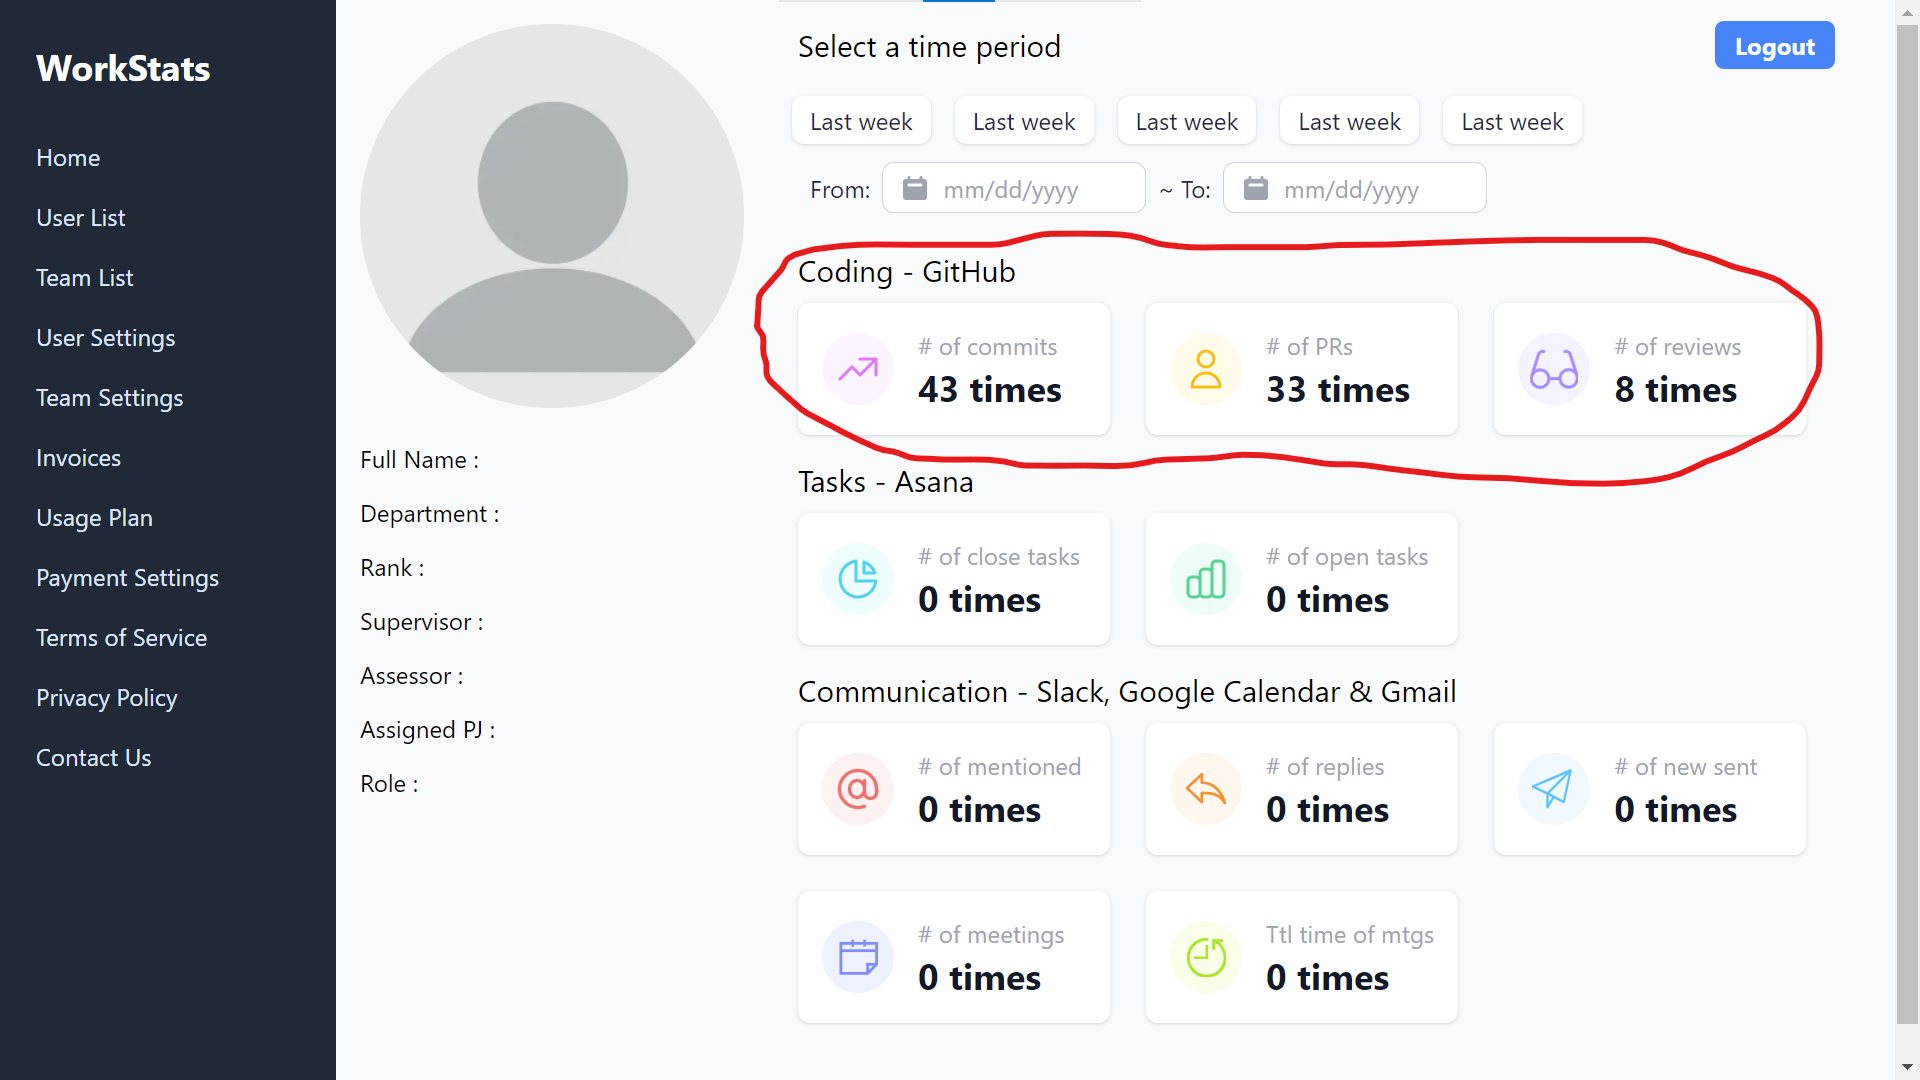
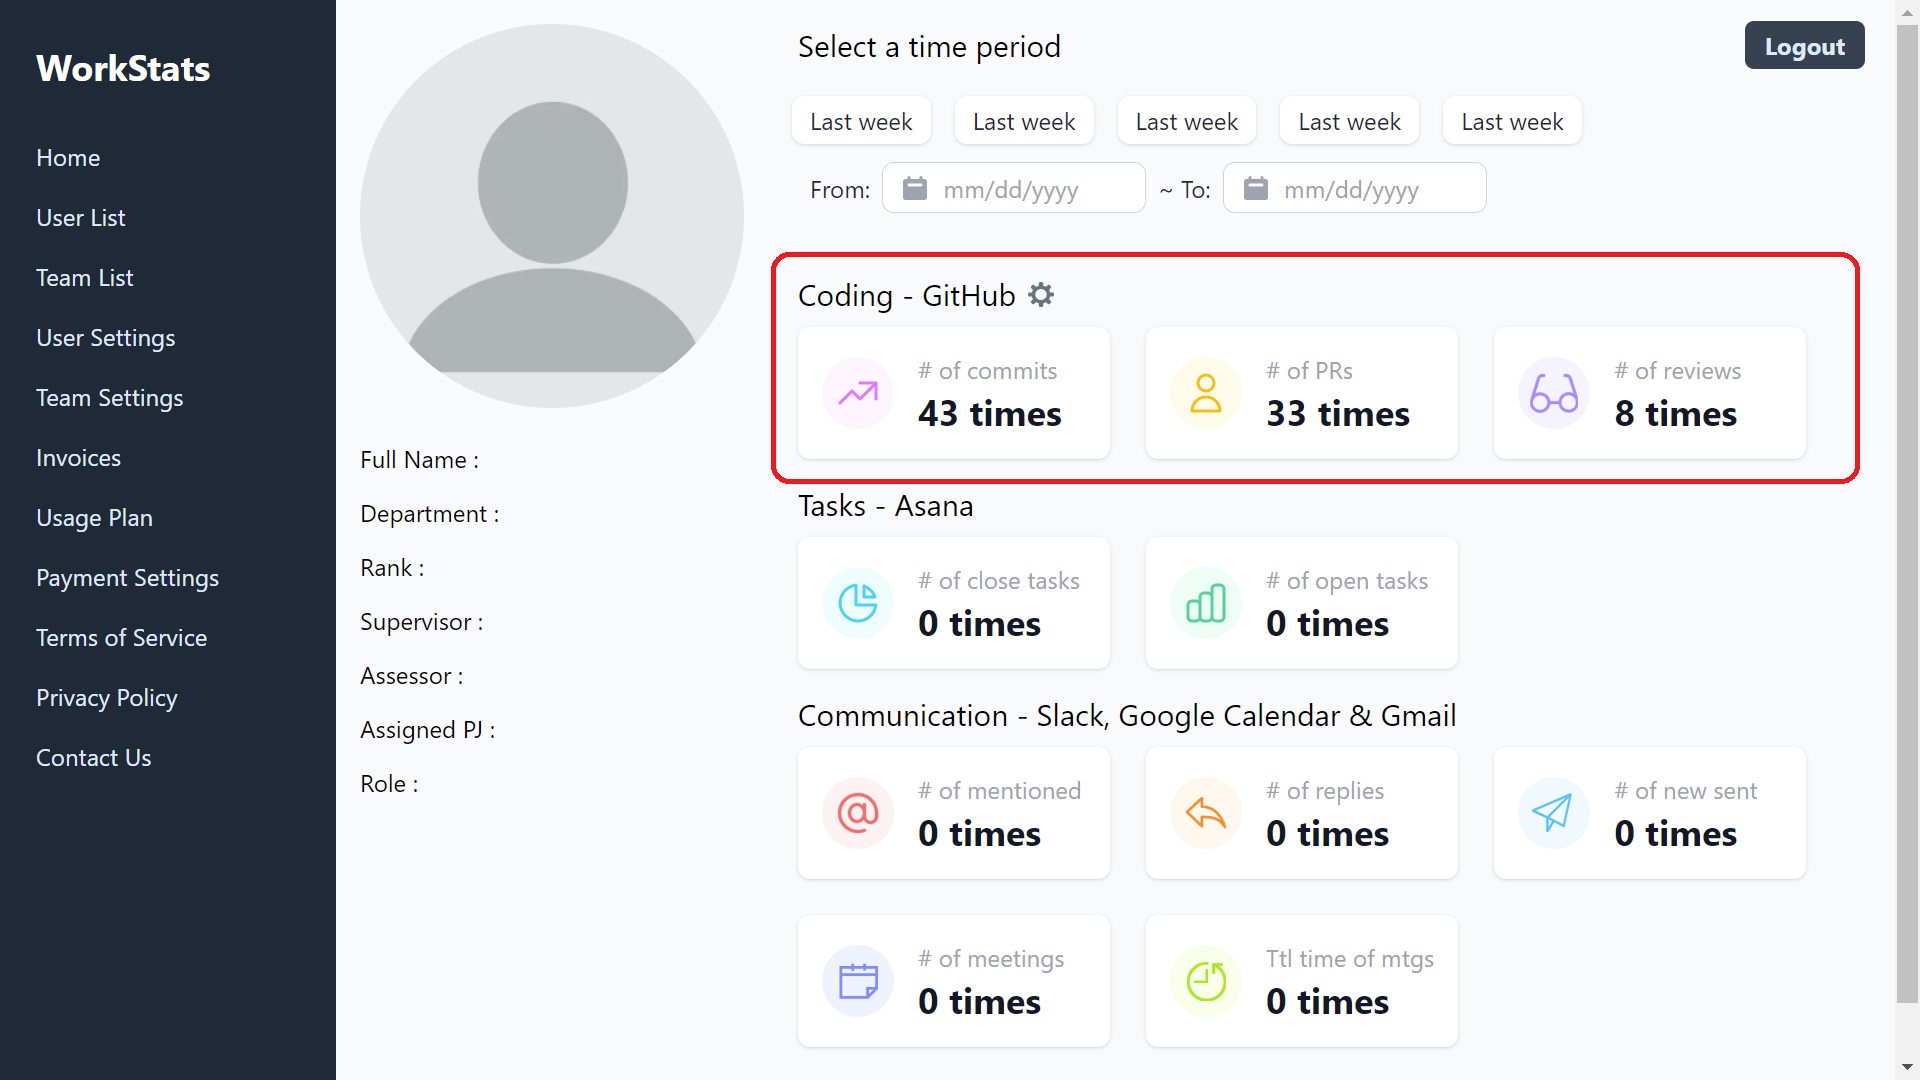
Hashib's point has been addressed.

diff --git a/pages/help/how-to-get-github-info.tsx b/pages/help/how-to-get-github-info.tsx
@@ -23,7 +23,7 @@ const HowToGetGitHubInfo = () => {
   return (
     <>
       <Head>
-        <title>WorkStats</title>
+        <title>How to get GitHub Info - WorkStats</title>
         <meta name='description' content='WorkStats' />
         <link rel='icon' href='/favicon.ico' />
       </Head>
@@ -72,7 +72,10 @@ const HowToGetGitHubInfo = () => {
           </div>
         </div>
         <h2 className='text-2xl py-4'>2. Go to [User Settings]</h2>
-        <p className='py-1 pb-4'>Go to [User Settings] in the left sidebar.</p>
+        <p className='py-1 pb-4'>
+          Go to [User Settings] in the left sidebar or the gear icon beside
+          &apos;Coding - GitHub&apos;.
+        </p>
         <div className='flex place-content-evenly place-items-center'>
           <div className='relative aspect-video w-2/3'>
             <Image
@@ -190,25 +193,12 @@ const HowToGetGitHubInfo = () => {
           [Repository] and on the top left corner, you can see the repository
           name, its owner name, and its visibility as well.
         </p>
-        <div className='flex place-content-evenly place-items-center'>
-          <div className='relative aspect-video w-2/3'>
+        <div className='place-items-center'>
+          <div className='w-full'>
             <Image
               src={GitHubRepoTop}
               alt='Dashboard with an initial state'
-              layout='fill'
-              objectFit='contain'
-              quality={75}
-              priority={false}
-              placeholder='empty'
-            />
-          </div>
-          <div className='px-3'>{'=>'}</div>
-          <div className='relative aspect-video w-2/3'>
-            <Image
-              src={GitHubRepoVisibility}
-              alt='Dashboard with an initial state'
-              layout='fill'
-              objectFit='contain'
+              layout='intrinsic'
               quality={75}
               priority={false}
               placeholder='empty'

diff --git a/components/common/QuestionMark.tsx b/components/common/QuestionMark.tsx
@@ -4,15 +4,16 @@ import React from 'react';
 interface QuestionMarkType {
   mt: number;
   mb: number;
+  href: string;
 }
 
-const QuestionMark = ({ mt, mb }: QuestionMarkType) => {
+const QuestionMark = ({ mt, mb, href }: QuestionMarkType) => {
   return (
-    <Link href='/help/how-to-get-github-info' passHref={true}>
+    <Link href={href} passHref={true}>
       {/* Instead of opening a separate tab, it's too slow and doesn't take advantage of Next's good features. */}
       <a target='_blank' className=''>
         <button
-          className={`rounded-full text-center text-base font-semibold text-white bg-sky-500 w-6 h-6 mt-${mt} mb-${mb} ml-3 pb-6`}
+          className={`rounded-full text-center text-sm font-semibold text-blue-100 hover:text-white bg-gray-700 hover:bg-gray-600 w-5 h-5 mt-${mt} mb-${mb} ml-2`}
         >
           ?
         </button>

diff --git a/components/common/GearIcon.tsx b/components/common/GearIcon.tsx
@@ -1,0 +1,30 @@
+import Image from 'next/image';
+import Link from 'next/link';
+import React from 'react';
+import GearIcon from '../../public/gear-svgrepo-com.svg';
+
+interface GearIconType {
+  mt: number;
+  mb: number;
+  href: string;
+}
+
+const GearIconLink = ({ mt, mb, href }: GearIconType) => {
+  return (
+    <Link href={href} passHref={true}>
+      {/* Instead of opening a separate tab, it's too slow and doesn't take advantage of Next's good features. */}
+      <a target='_blank' className={`mt-${mt} mb-${mb} ml-2`}>
+        <Image
+          src={GearIcon}
+          alt='Gear icon links to user settings'
+          layout='intrinsic'
+          quality={75}
+          priority={false}
+          placeholder='empty'
+        />
+      </a>
+    </Link>
+  );
+};
+
+export default GearIconLink;

diff --git a/components/cards/CardList.tsx b/components/cards/CardList.tsx
@@ -16,7 +16,7 @@ import TotalTimeOfMeetings from './TotalTimeOfMtgs';
 // import services
 import { handleClientLoad } from '../../services/googleCalendar.client';
 // import GoogleAuthButton from './Auth&SignInButton';
-import QuestionMark from '../common/QuestionMark';
+import GearIconLink from '../common/GearIcon';
 
 // @ts-ignore
 const CardList = ({
@@ -63,7 +63,7 @@ const CardList = ({
       <div className='container max-w-6xl px-5 my-5'>
         <div className='flex'>
           <h2 className='text-xl mt-4 mb-2'>Coding - GitHub</h2>
-          <QuestionMark mt={4} mb={2} />
+          <GearIconLink mt={5} mb={2} href='/user-settings' />
         </div>
         <div className='grid gap-6 grid-cols-3 lg:grid-cols-3 xl:grid-cols-3'>
           <NumberOfCommits

diff --git a/components/common/Logout.tsx b/components/common/Logout.tsx
@@ -17,7 +17,7 @@ const LogOut = () => {
   return (
     <button
       type='button' // https://developer.mozilla.org/en-US/docs/Web/HTML/Element/button
-      className='w-20 h-8 bg-blue-500 hover:bg-blue-700 text-white font-bold rounded-md absolute top-3.5 right-10'
+      className='w-20 h-8 bg-gray-700 hover:bg-gray-600 text-blue-100 hover:text-white font-bold rounded-md absolute top-3.5 right-5'
       onClick={() => {
         handleClick();
       }}

diff --git a/pages/user-settings.tsx b/pages/user-settings.tsx
@@ -122,7 +122,7 @@ const userSettings = ({ uid, userDoc }: { uid: string; userDoc: UserType }) => {
         <h2 className='text-xl mt-8 mb-2 ml-6 underline underline-offset-4'>
           Source Code / GitHub
         </h2>
-        <QuestionMark mt={9} mb={1} />
+        <QuestionMark mt={9} mb={1} href='/help/how-to-get-github-info' />
       </div>
       <form
         name='source-code'

diff --git a/pages/user-list.tsx b/pages/user-list.tsx
@@ -1,7 +1,14 @@
+import Head from 'next/head';
 import React from 'react';
 
 const userList = () => {
-  return <div>userList</div>;
+  return (
+    <Head>
+      <title>User List - WorkStats</title>
+      <meta name='description' content='WorkStats' />
+      <link rel='icon' href='/favicon.ico' />
+    </Head>
+  );
 };
 
 export default userList;

diff --git a/pages/terms-of-service.tsx b/pages/terms-of-service.tsx
@@ -7,7 +7,7 @@ export default function TermsOfService() {
   return (
     <>
       <Head>
-        <title>WorkStats</title>
+        <title>Terms of Service - WorkStats</title>
         <meta name='description' content='WorkStats' />
         <link rel='icon' href='/favicon.ico' />
       </Head>

diff --git a/pages/privacy-policy.tsx b/pages/privacy-policy.tsx
@@ -6,7 +6,7 @@ export default function PrivacyPolicy() {
   return (
     <>
       <Head>
-        <title>WorkStats</title>
+        <title>Privacy Policy - WorkStats</title>
         <meta name='description' content='WorkStats' />
         <link rel='icon' href='/favicon.ico' />
       </Head>

diff --git a/pages/index.tsx b/pages/index.tsx
@@ -69,7 +69,7 @@ export default function Home({
   return (
     <>
       <Head>
-        <title>WorkStats</title>
+        <title>Dashboard - WorkStats</title>
         <meta name='description' content='WorkStats' />
         <link rel='icon' href='/favicon.ico' />
         {/* <link

diff --git a/.github/pull_request_template.md b/.github/pull_request_template.md
@@ -1,8 +1,8 @@
-## What is issue:
+## Problem:
 
 
 
-## How to resolve:
+## Solution:
 
 
 
